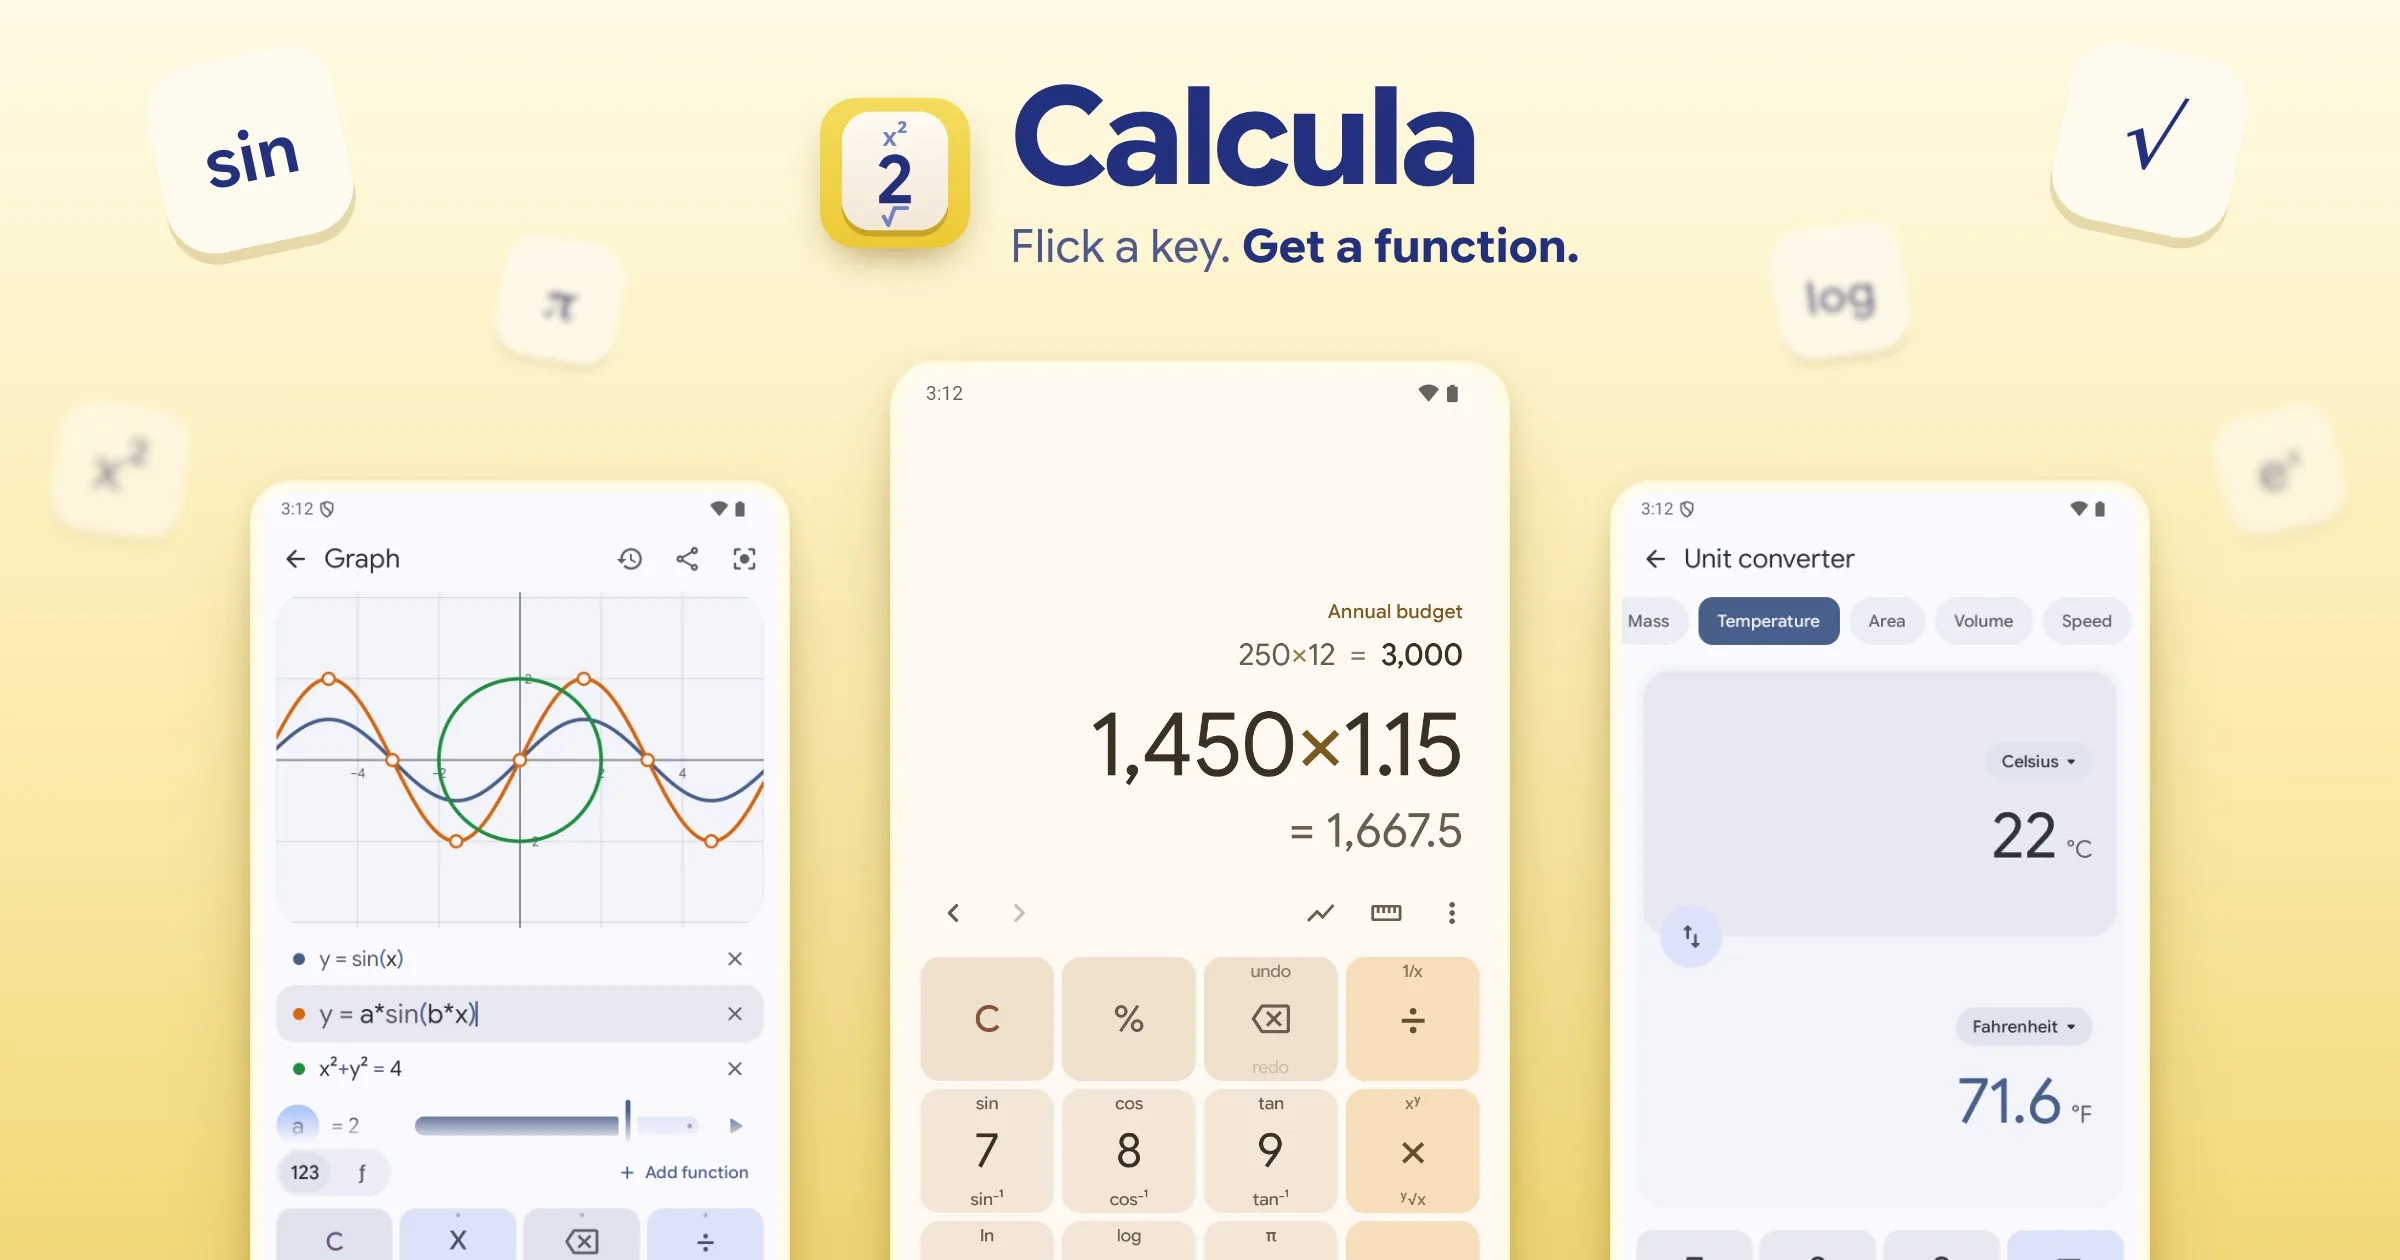
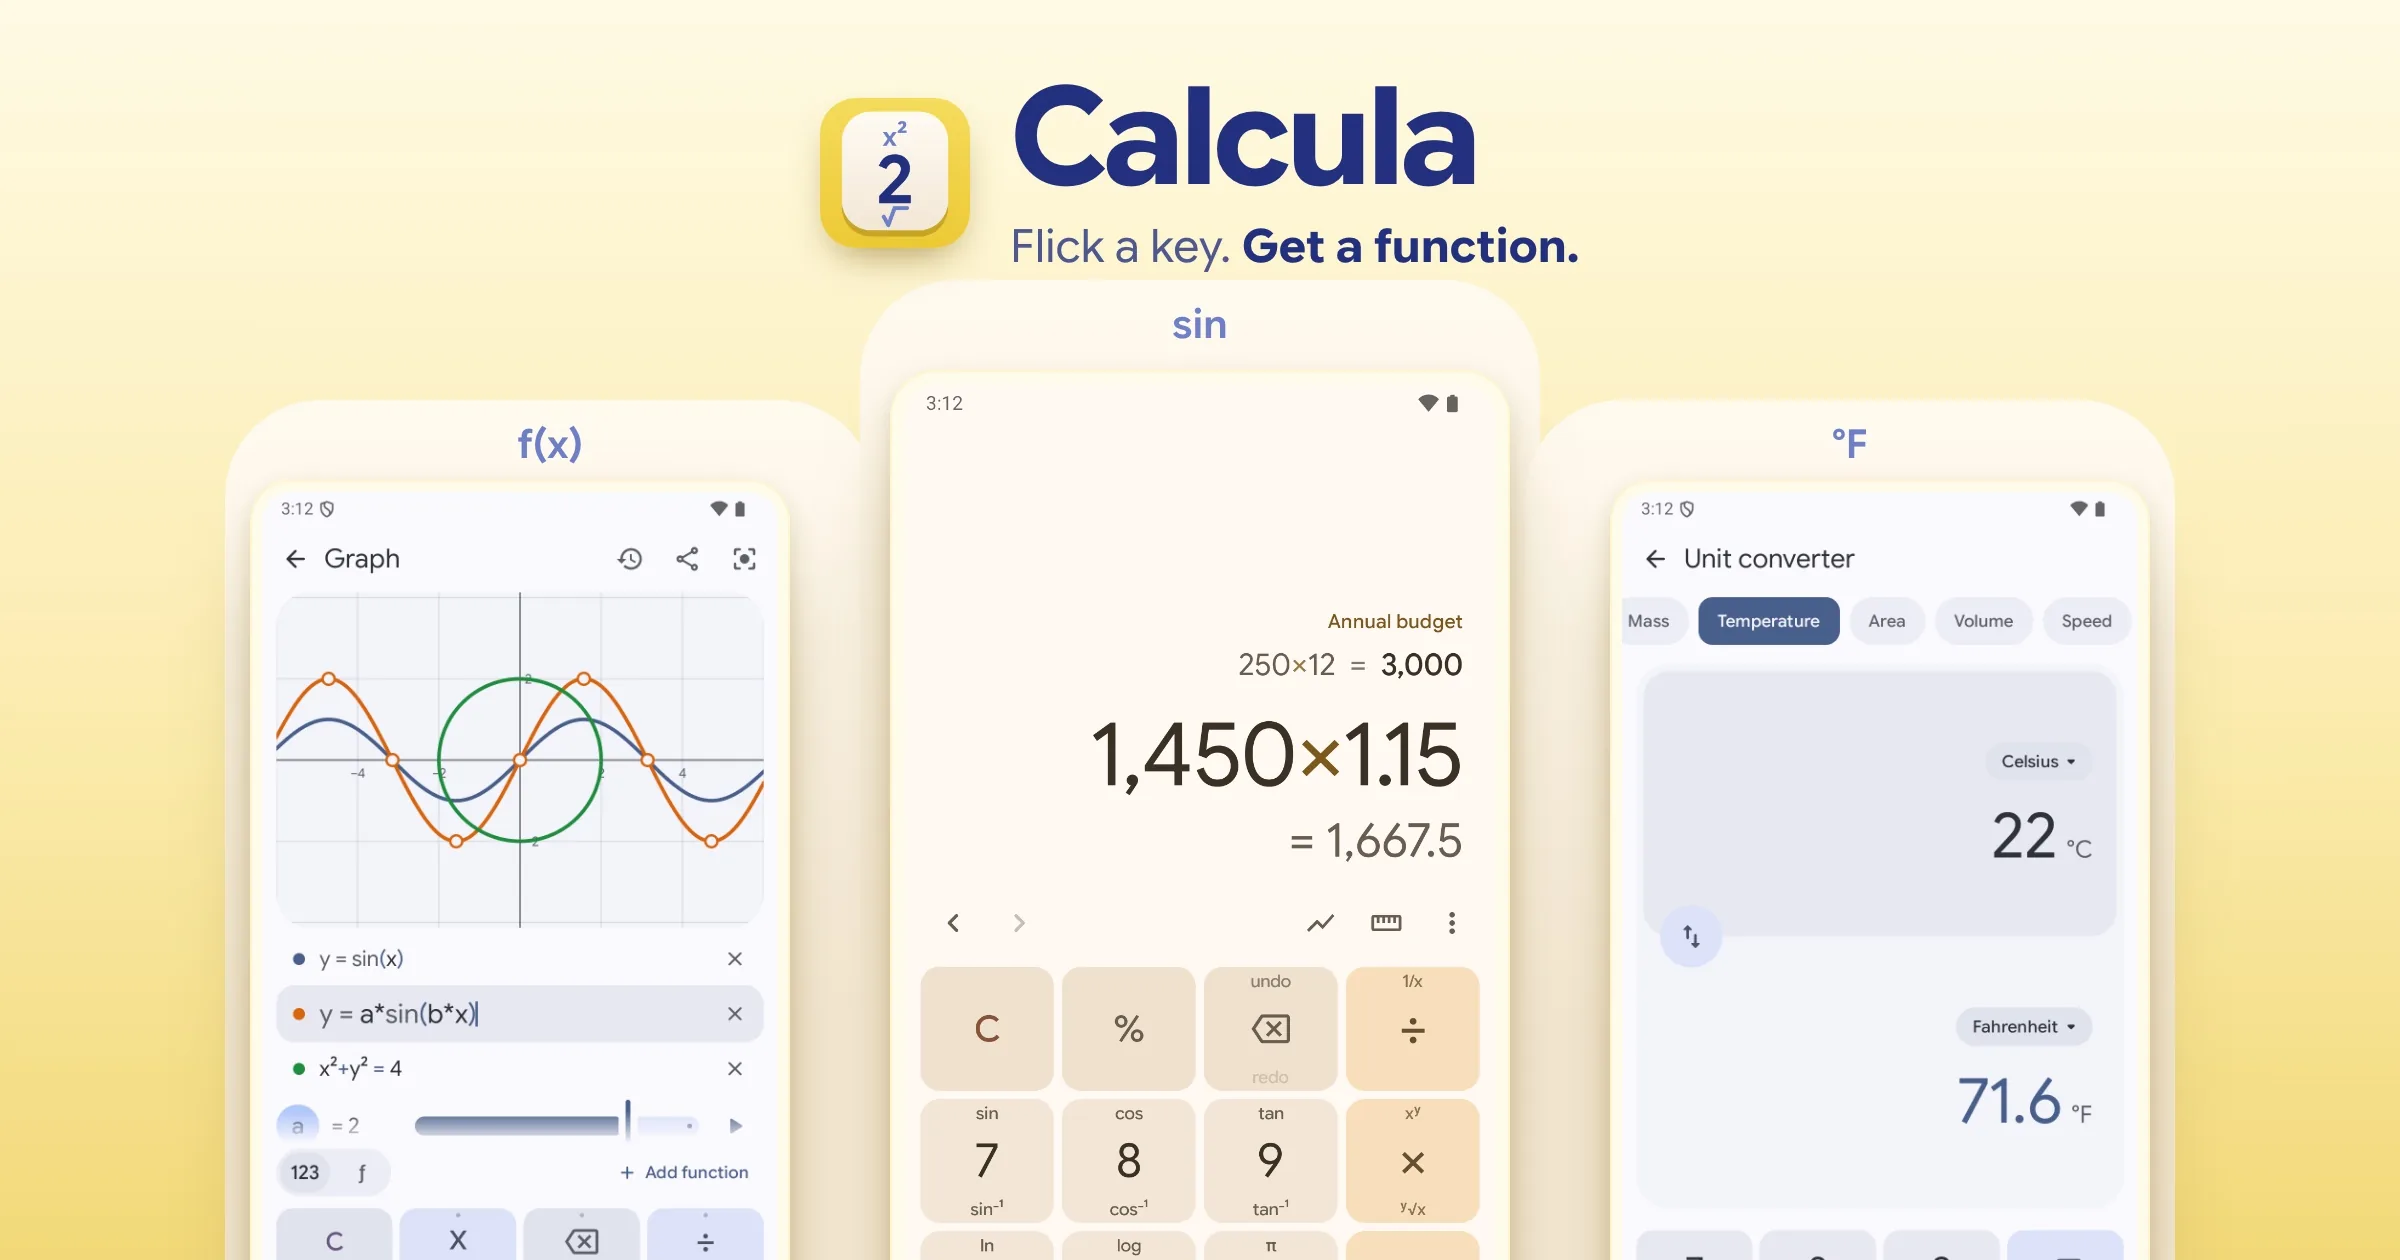
Calcula header: phones on keys

diff --git a/lib/apps.ts b/lib/apps.ts
@@ -115,7 +115,7 @@ export const apps: AppData[] = [
     images: [
       {
         file: "hero",
-        alt: "Calcula's graph, keypad and unit converter with its scientific keys floating around the name",
+        alt: "Calcula's graph, keypad and unit converter each standing on a Calcula key labelled f(x), sin and °F",
       },
       {
         file: "tools",
